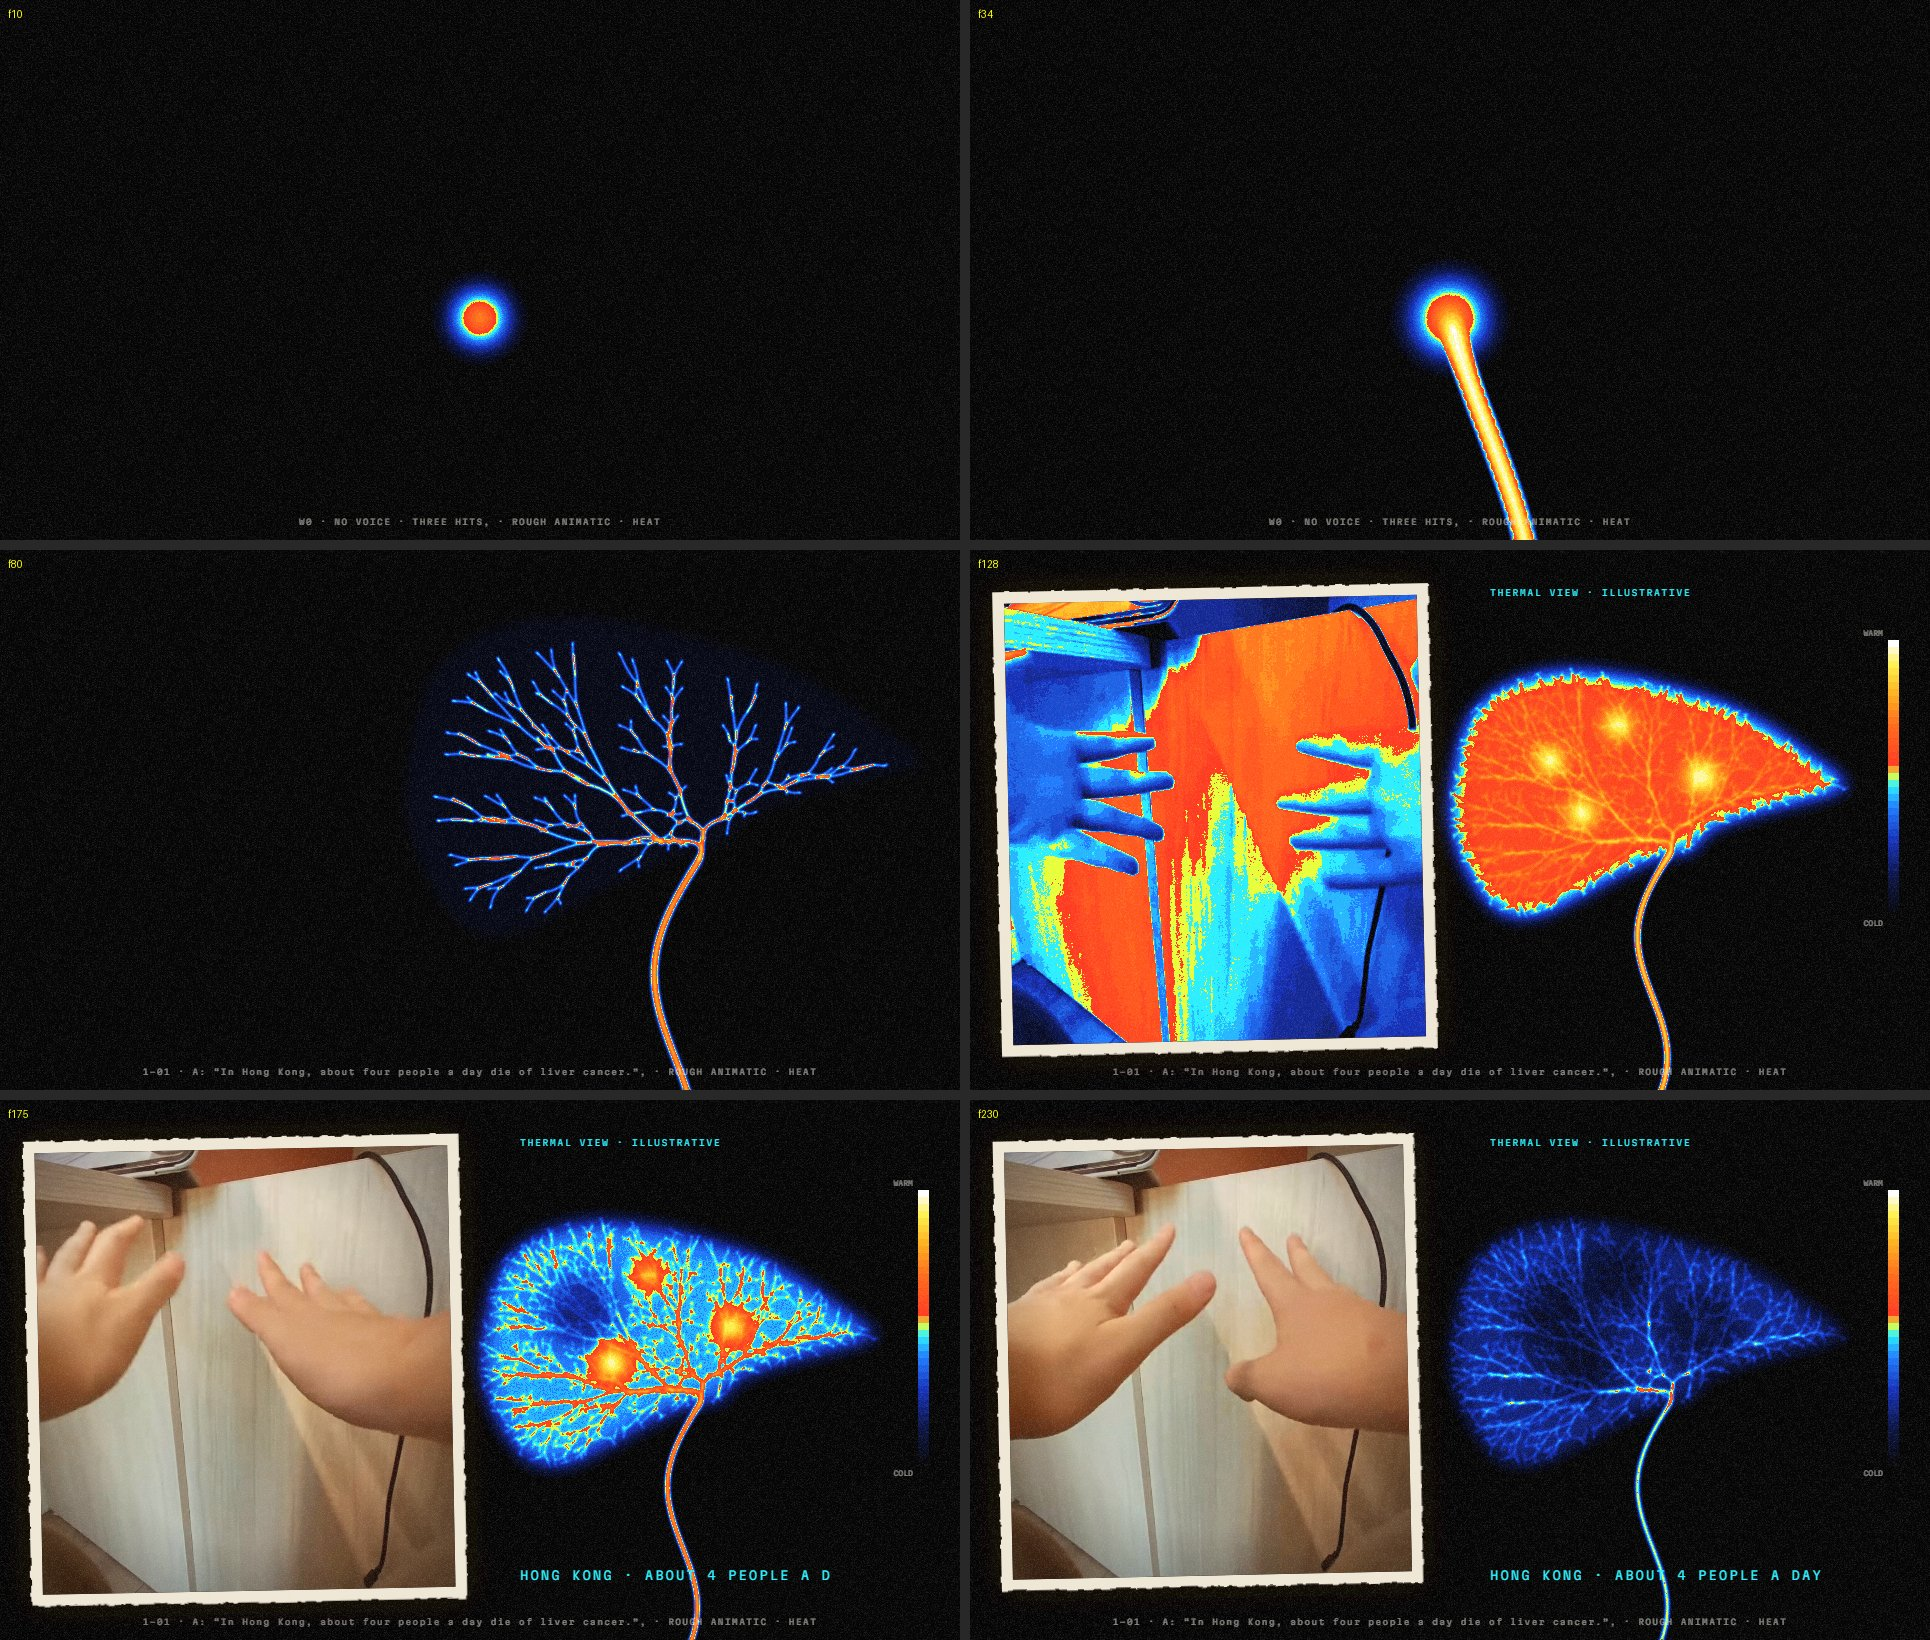
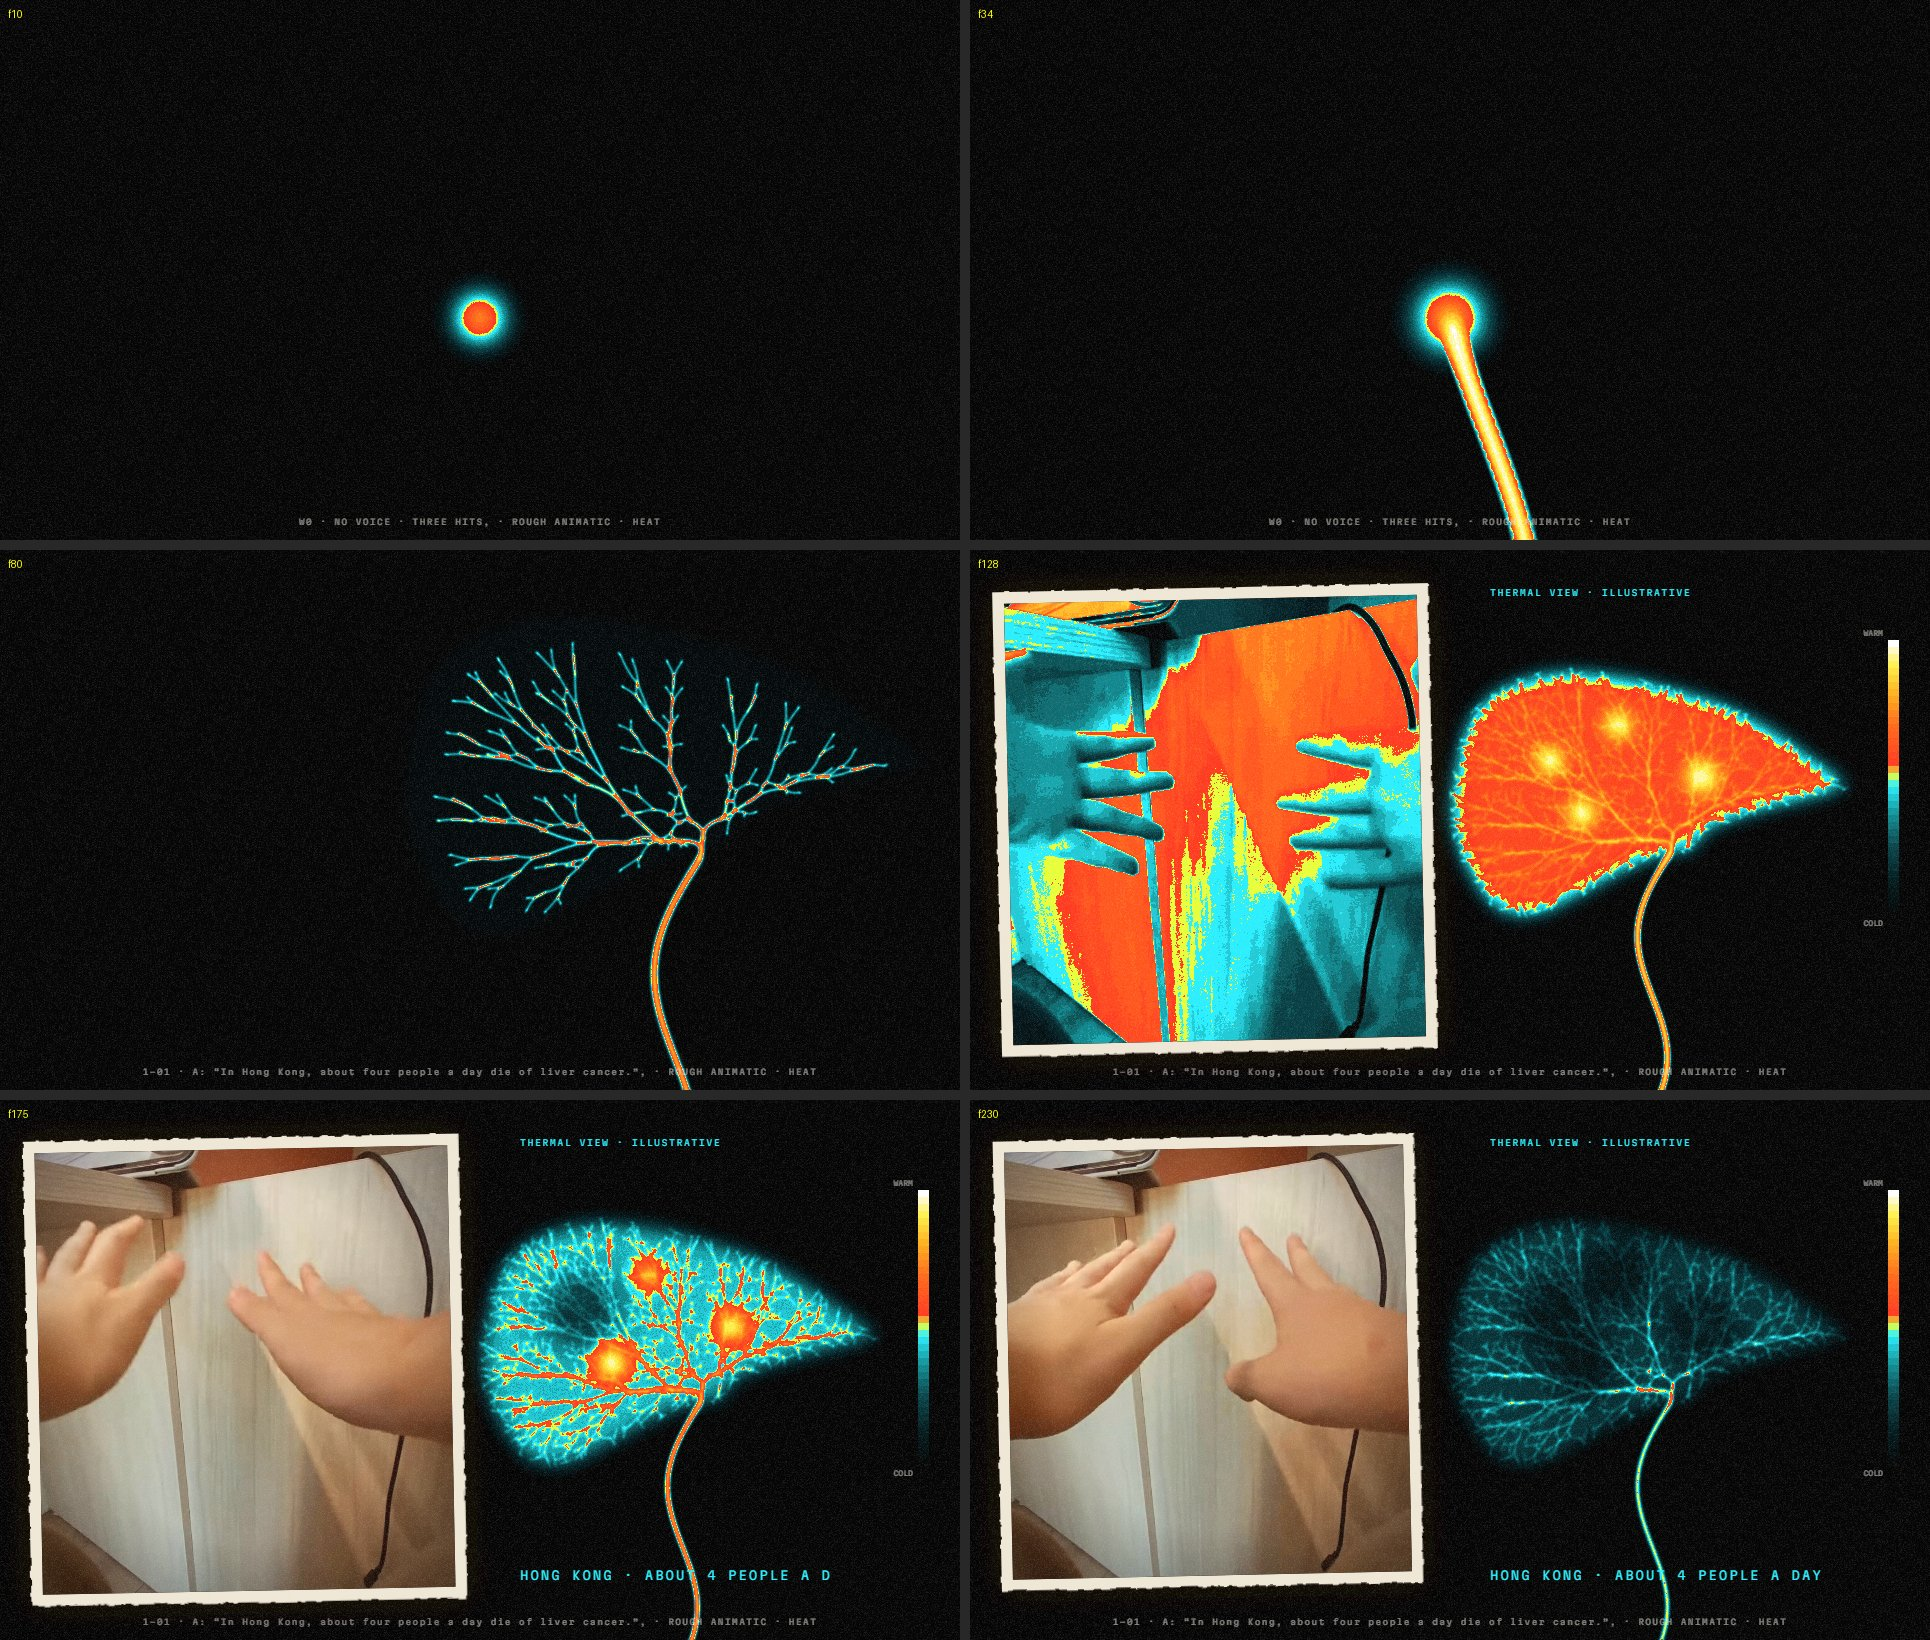
热量色带冷端改为青色系（墨绿→青→电青），去掉深蓝

diff --git a/镜头设计_v2/tests/T4_remotion/src/v3/thermal.jsx b/镜头设计_v2/tests/T4_remotion/src/v3/thermal.jsx
@@ -1,10 +1,10 @@
 // Thermal false colour: draw heat as white-on-black (brightness = heat), then map brightness through our own palette.
-// Cold → hot: black, navy, blue, cyan, acid fringe, vermilion, orange, yellow, white. Banded like a 12-colour print.
+// Cold → hot: black, deep teal, teal, cyan, acid fringe, vermilion, orange, yellow, white. Banded like a 12-colour print.
 import React from "react";
 import {C} from "./core";
 
 export const HEAT_STOPS = [
-  [0.00, "#050505"], [0.14, "#0A1240"], [0.28, "#1530B8"], [0.40, "#1E7BFF"], [0.48, C.cyan], [0.52, C.acid],
+  [0.00, "#050505"], [0.12, "#03171A"], [0.26, "#08454A"], [0.38, "#11949A"], [0.48, C.cyan], [0.52, C.acid],
   [0.56, C.verm], [0.70, "#FF6A1A"], [0.82, "#FFB21F"], [0.92, "#FFF04A"], [1.00, "#FFFFFF"],
 ];
 const rgb = h => [1, 3, 5].map(i => parseInt(h.slice(i, i + 2), 16) / 255);

diff --git a/镜头设计_v3/storyboard/S1_分镜_v1.md b/镜头设计_v3/storyboard/S1_分镜_v1.md
@@ -130,6 +130,7 @@
 - 角落标 "THERMAL VIEW · ILLUSTRATIVE"，右边一条冷暖色标。示意图要写明是示意。
 - 出镜卡加了 `thermal={[from, to]}` 参数：先热成像、再显影。其他人第一次出镜可以复用。
 - 待看：节奏（第 3 下之后拉远要不要更慢）；热点是否要更大；A 的声音进来时画面是否太满。
+- 导演反馈（10-30）：最后的蓝色怪，应该偏青。已改：色带的冷端从深蓝换成墨绿、青、电青。现在肝冷掉以后是深青底加电青血管，正好变成"计算机的颜色"。
 
 ## 1-01 · 00:02–00:08 · A 出镜 · ✏
 
